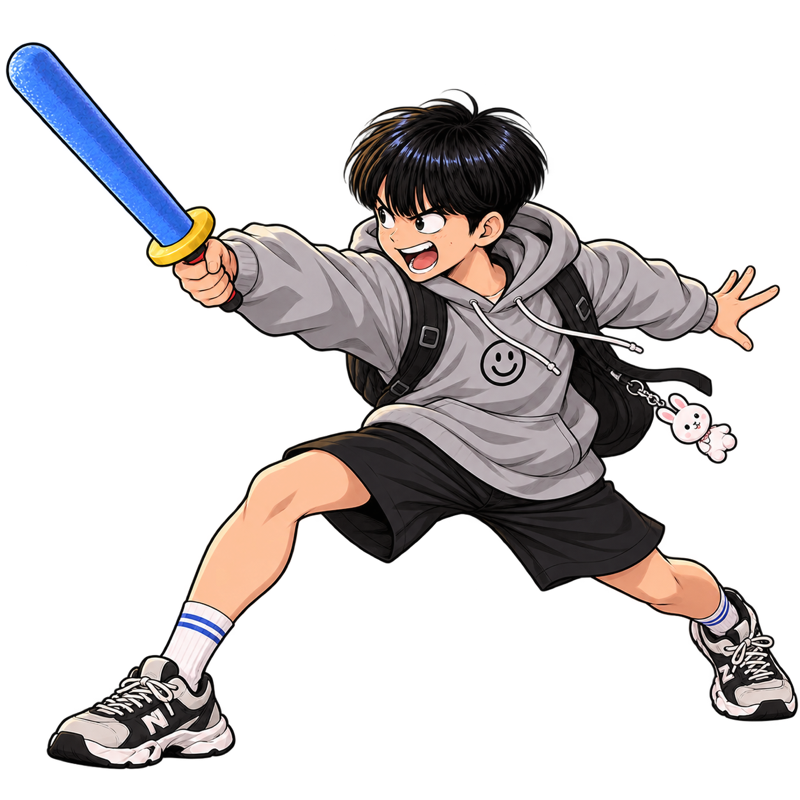
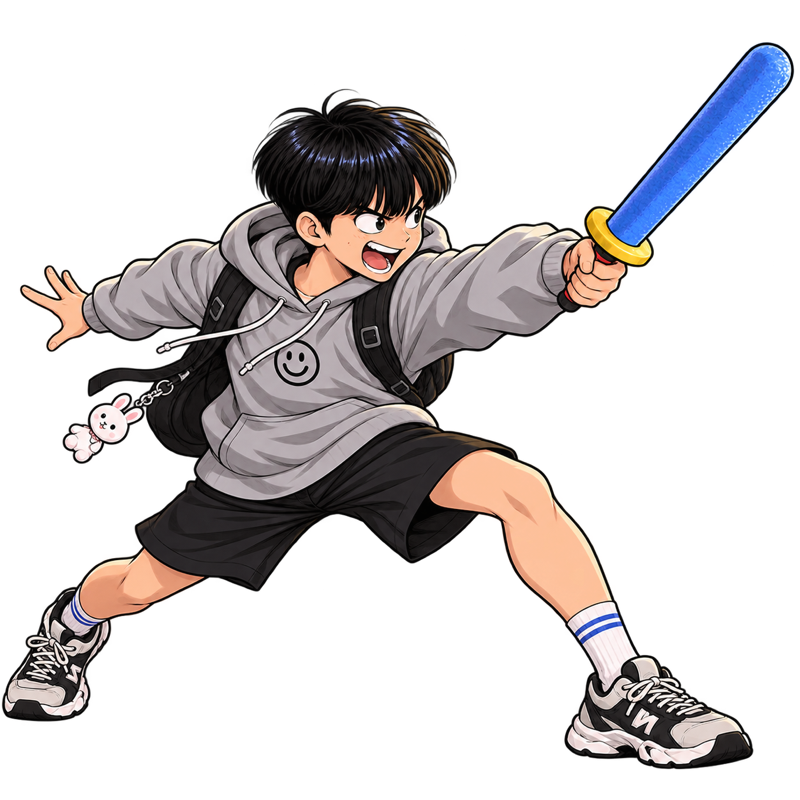
fix(assets): mirror jaemmin's five poses so he faces the opponent like every other fighter
All other source art faces right and the right seat flips it with scaleX(-1);
jaemmin's art faced left, so he looked away from the fight on the right seat
(and on the left seat too). Portrait crop x mirrored 56 -> 44.

diff --git a/src/client/battle/characters.ts b/src/client/battle/characters.ts
@@ -14,7 +14,7 @@ export interface Character {
 
 export const ROSTER: readonly Character[] = [
   { id: 'grandma', name: '욕쟁이 할머니', blurb: '순대국밥 20년차 욕쟁이 할머니', portrait: { x: 58, y: 18, zoom: 2.6 } },
-  { id: 'jaemmin', name: '이잼민', blurb: '내 나이 15 이잼민', portrait: { x: 56, y: 14, zoom: 2.6 } },
+  { id: 'jaemmin', name: '이잼민', blurb: '내 나이 15 이잼민', portrait: { x: 44, y: 14, zoom: 2.6 } },
   { id: 'daeri', name: '김대리', blurb: '퇴근 1분 전 김대리', portrait: { x: 52, y: 16, zoom: 2.6 } },
   { id: 'alba', name: '편의점 알바', blurb: '야간 300일차 편의점 알바', portrait: { x: 54, y: 18, zoom: 2.6 } },
   { id: 'chongmu', name: '산악회 총무', blurb: '단톡방 지배자 산악회 총무', portrait: { x: 47, y: 23, zoom: 2.6 } },
